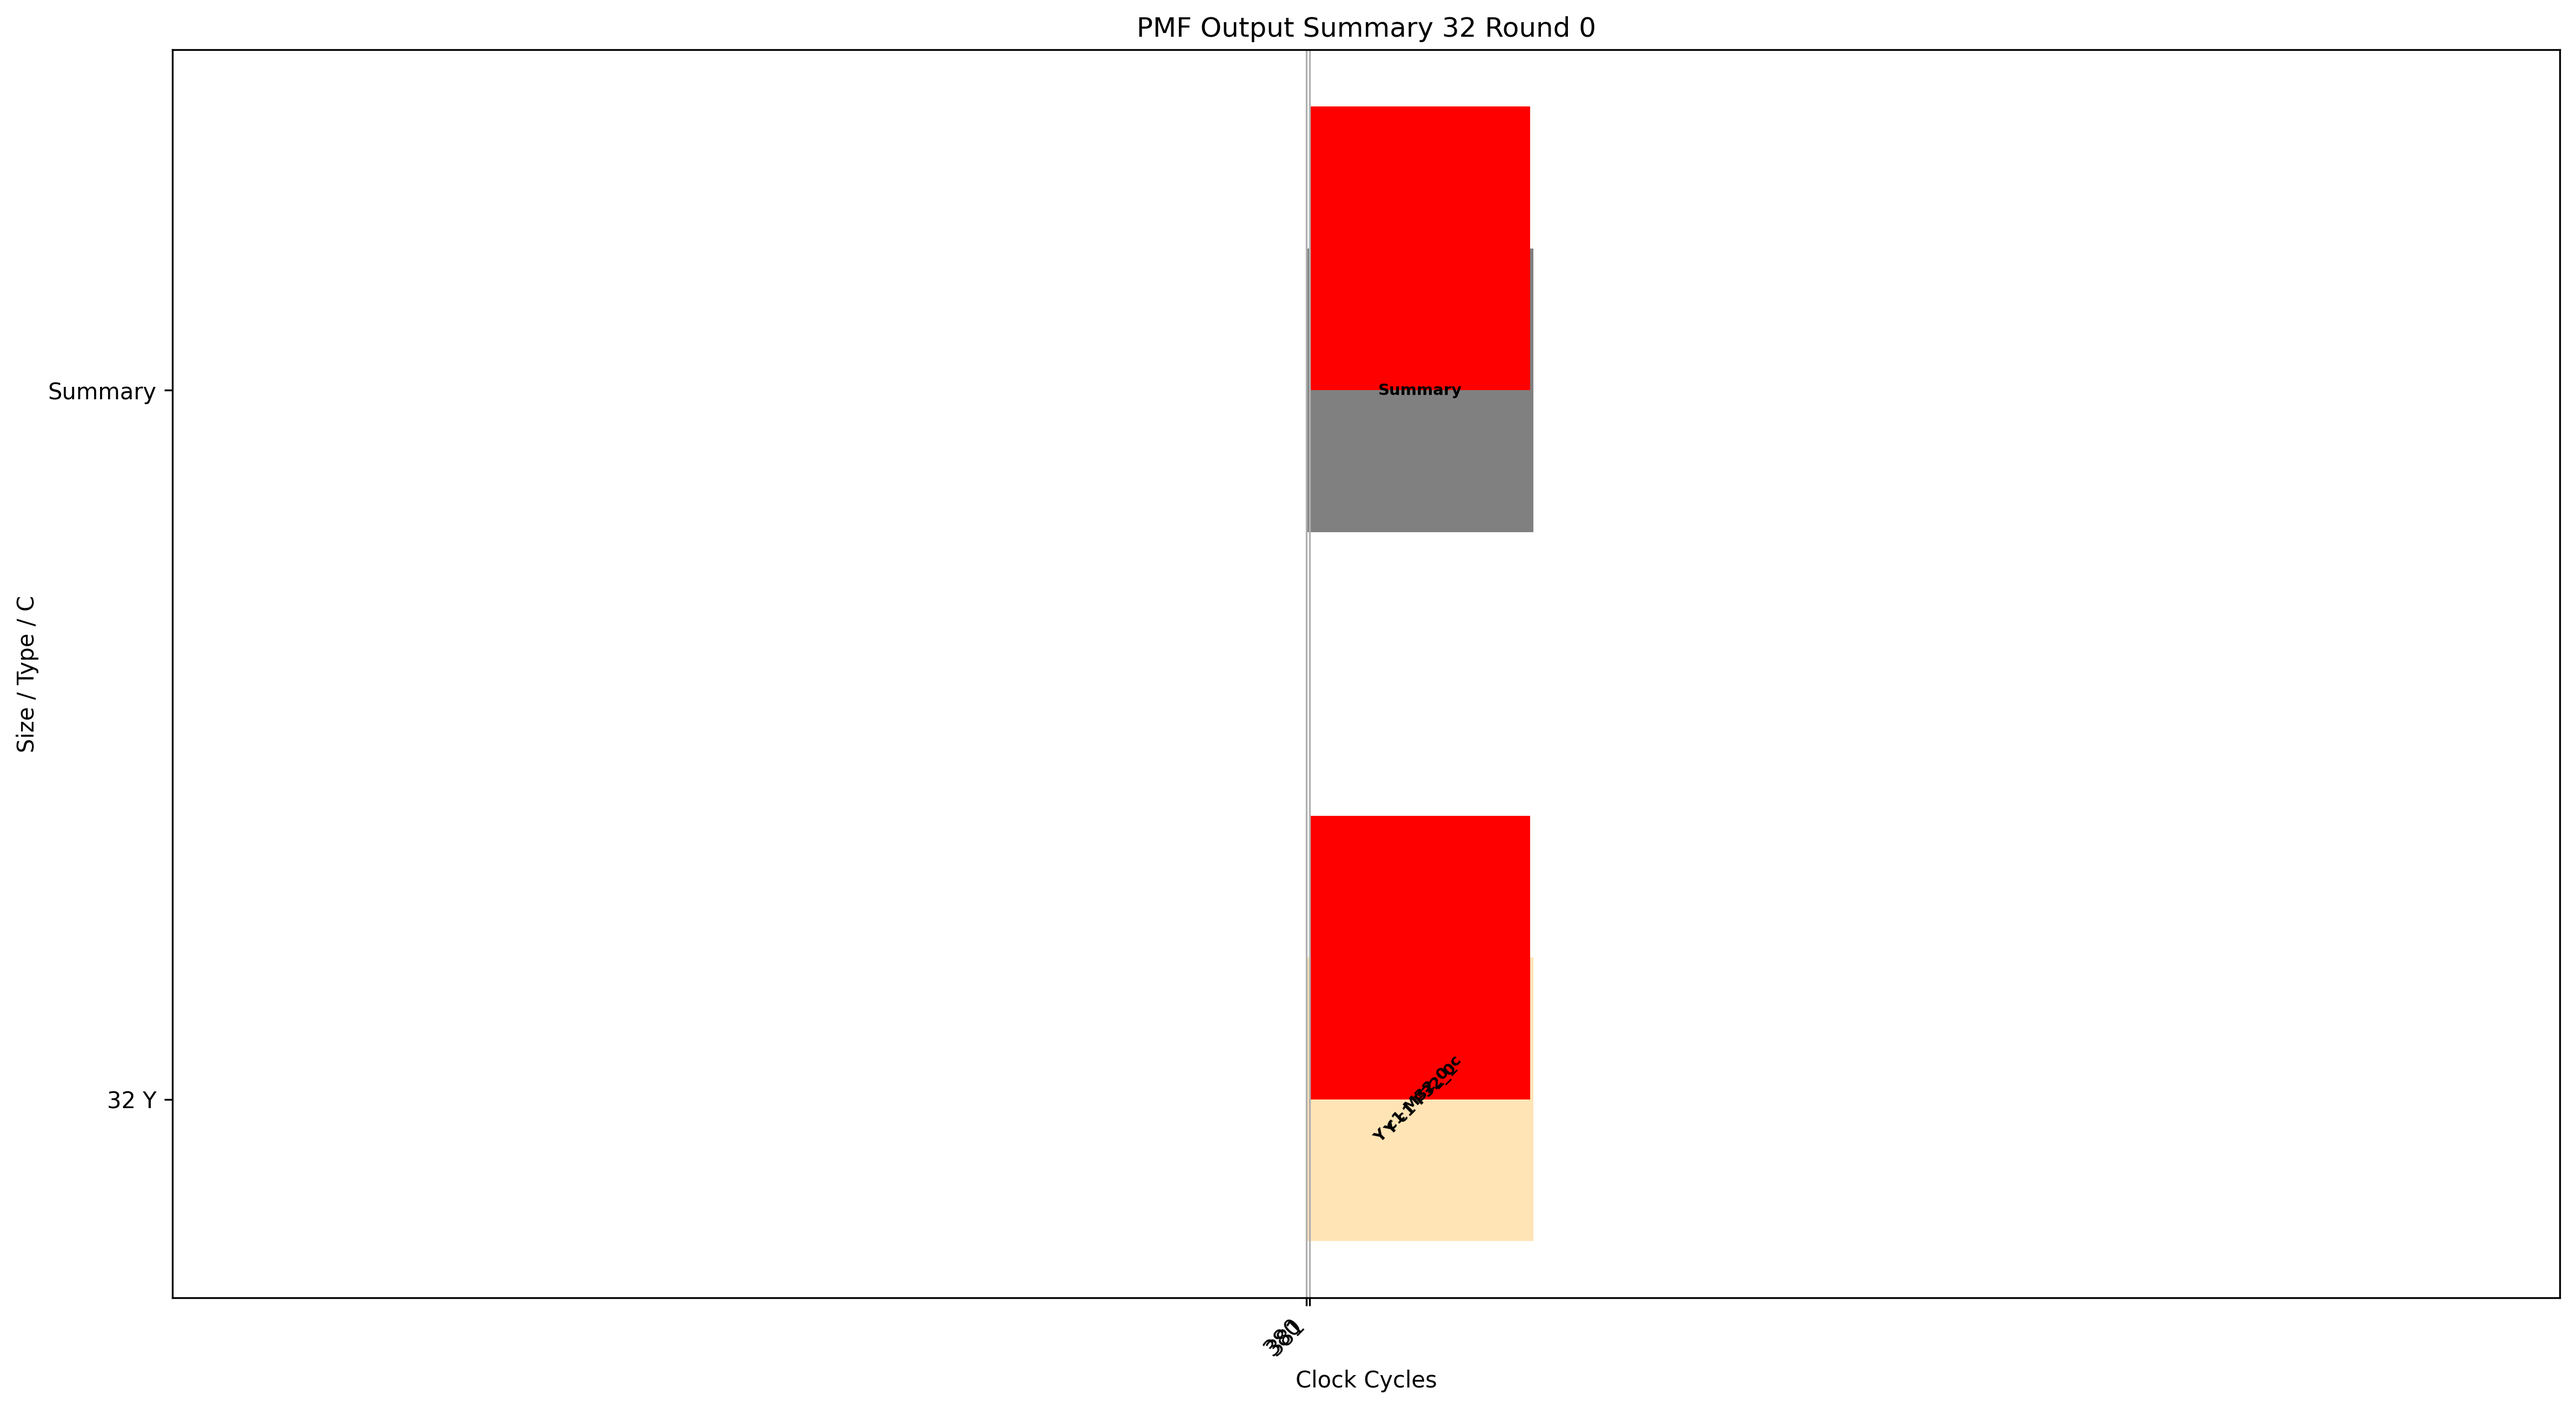
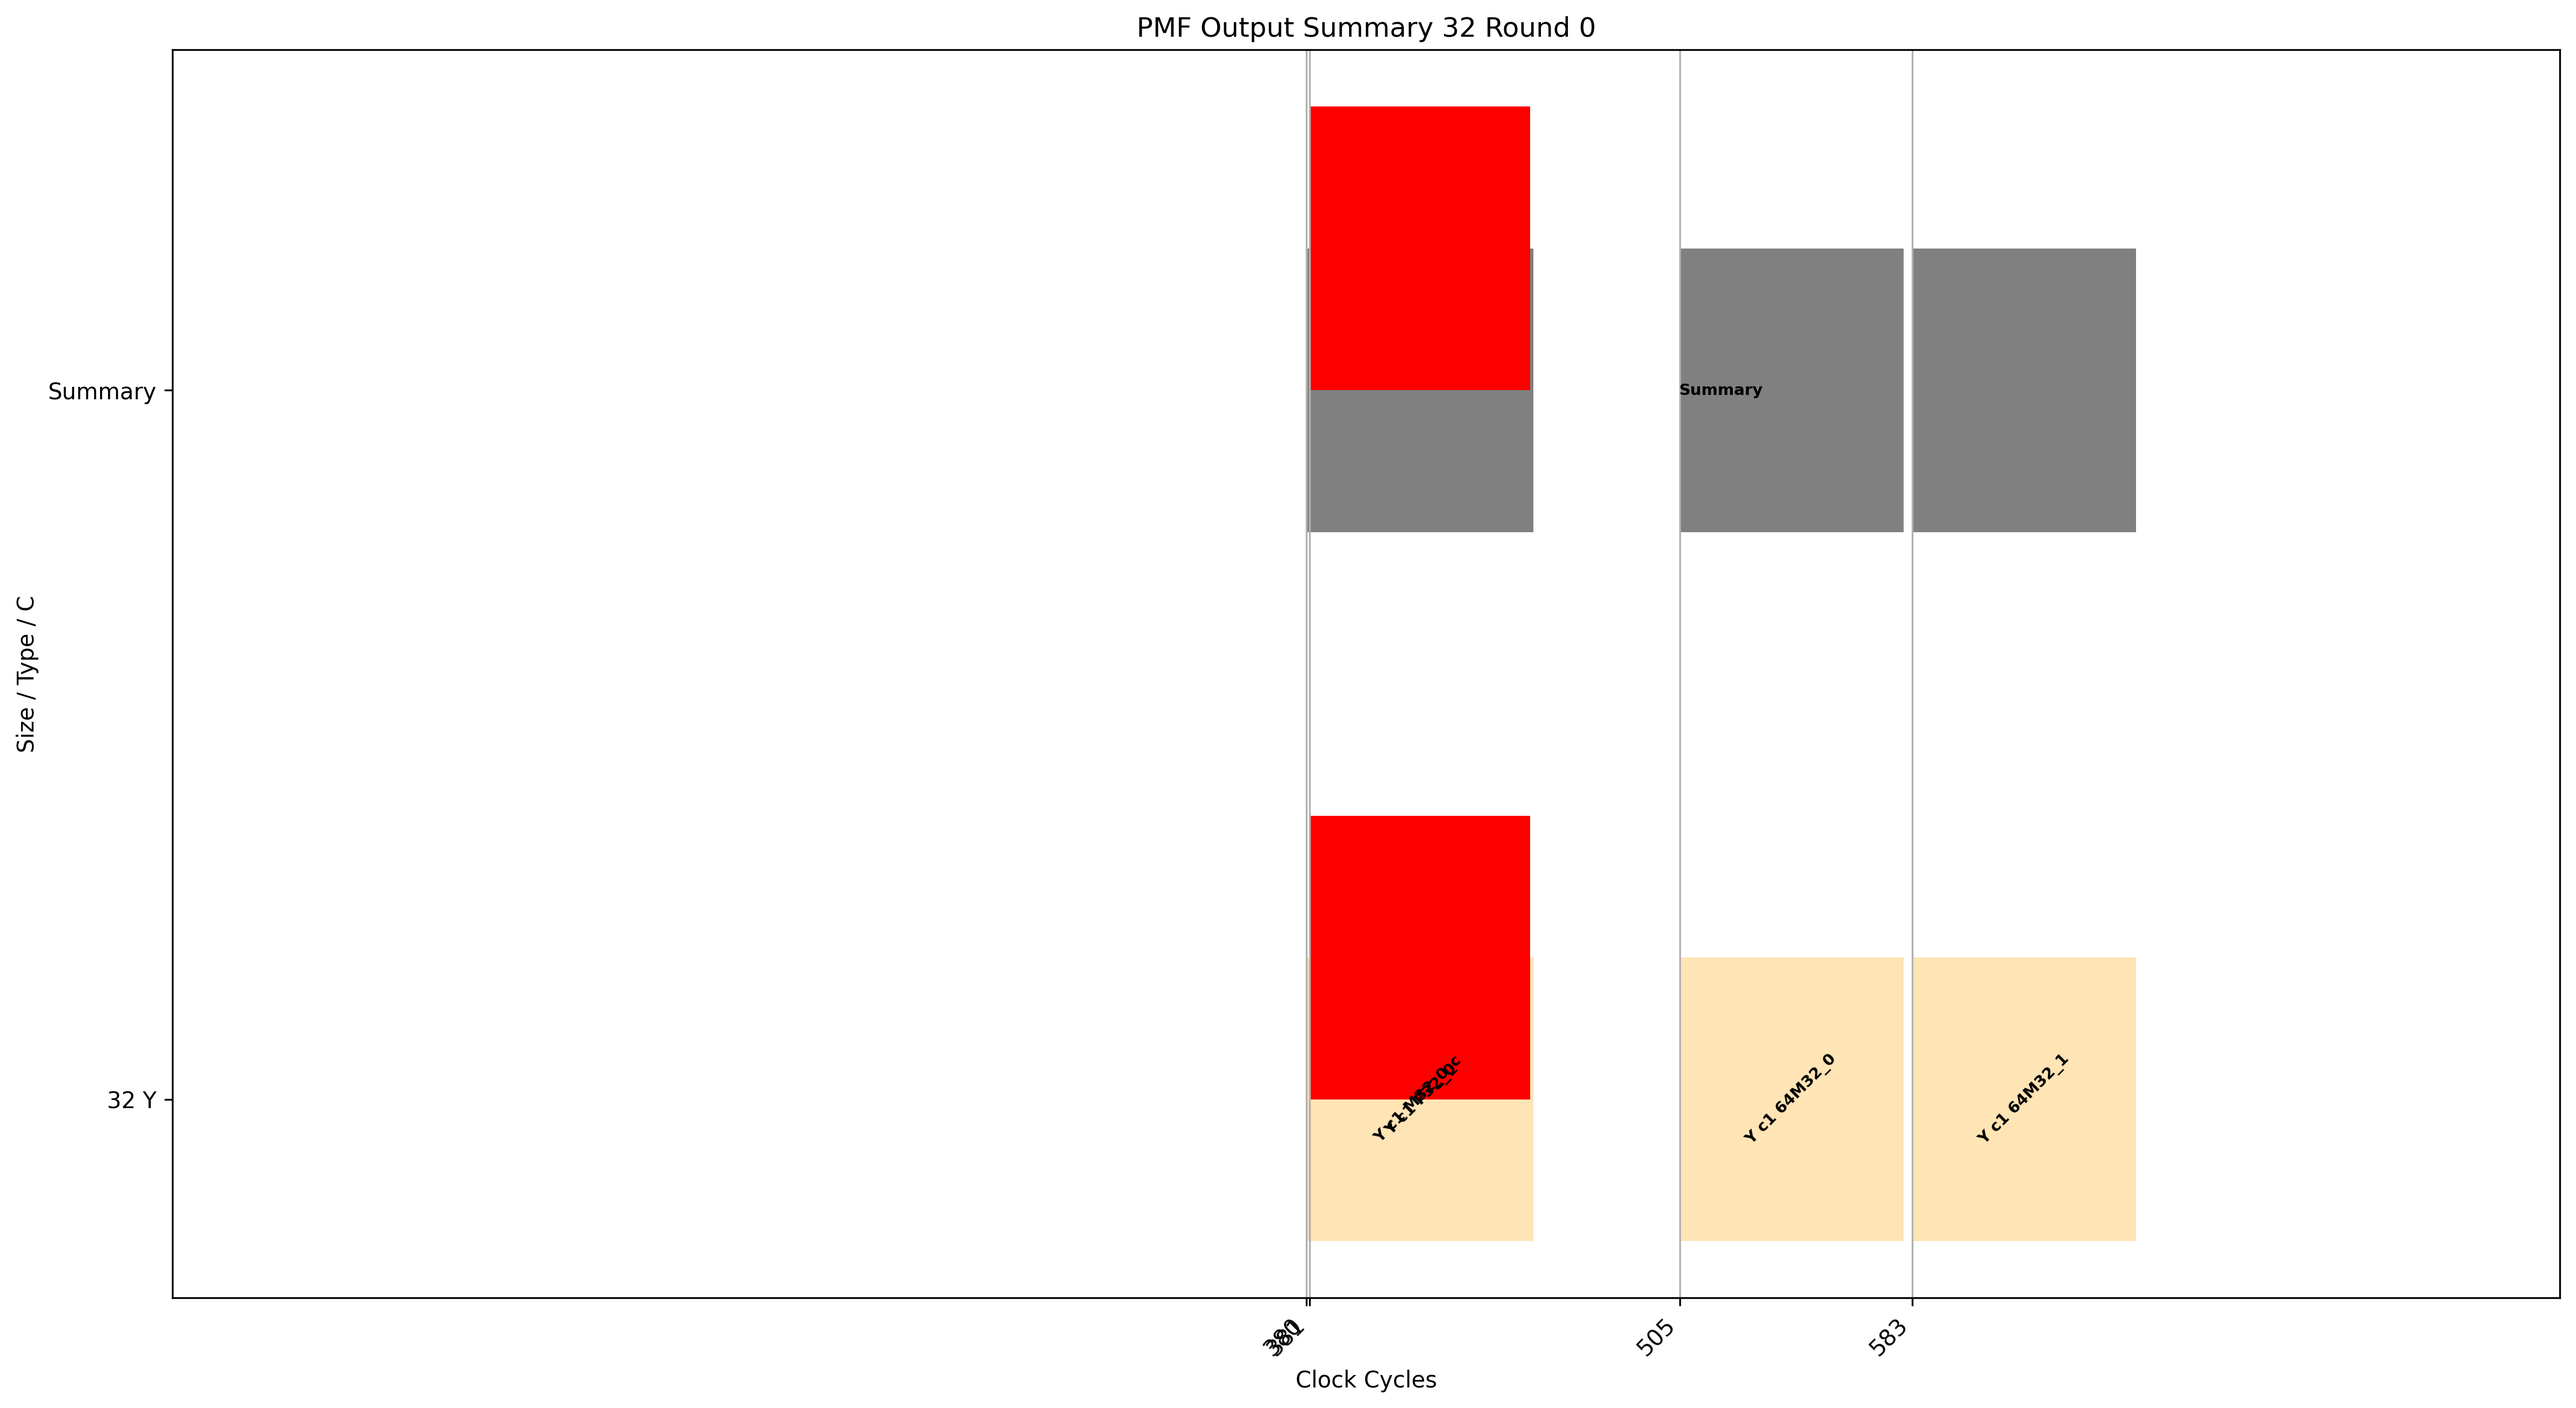
refactor: standardize PMF task names and optimize size extraction logic
- Updated PMF task identifiers in CSV files to follow consistent naming convention (e.g., PMF_M32_a split into PMF_32M16_0 and PMF_32M16_1)
- Refactored get_size function in process_excel_and_generate_gantts.py to use regex for better maintainability
- Regenerated corresponding PNG plots and summary files to reflect changes

Changed region(s): [[0.6521, 0.1554, 0.8384, 0.4041], [0.6521, 0.6527, 0.8384, 0.9014]]

diff --git a/process_excel_and_generate_gantts.py b/process_excel_and_generate_gantts.py
@@ -13,6 +13,7 @@ import sys
 import os
 import matplotlib.pyplot as plt
 from collections import defaultdict
+import re
 
 def read_tasks_from_csv(csv_file_path):
     """
@@ -206,14 +207,9 @@ def clean_pmf_tasks(tasks):
     return cleaned
 
 def get_size(mode):
-    if 'M4' in mode or 'F4' in mode:
-        return '4'
-    elif 'M8' in mode or 'F8' in mode:
-        return '8'
-    elif 'M16' in mode or 'F16' in mode:
-        return '16'
-    elif 'M32' in mode or 'F32' in mode:
-        return '32'
+    match = re.search(r'[MF](\d+)', mode)
+    if match:
+        return match.group(1)
     else:
         return 'other'
 
